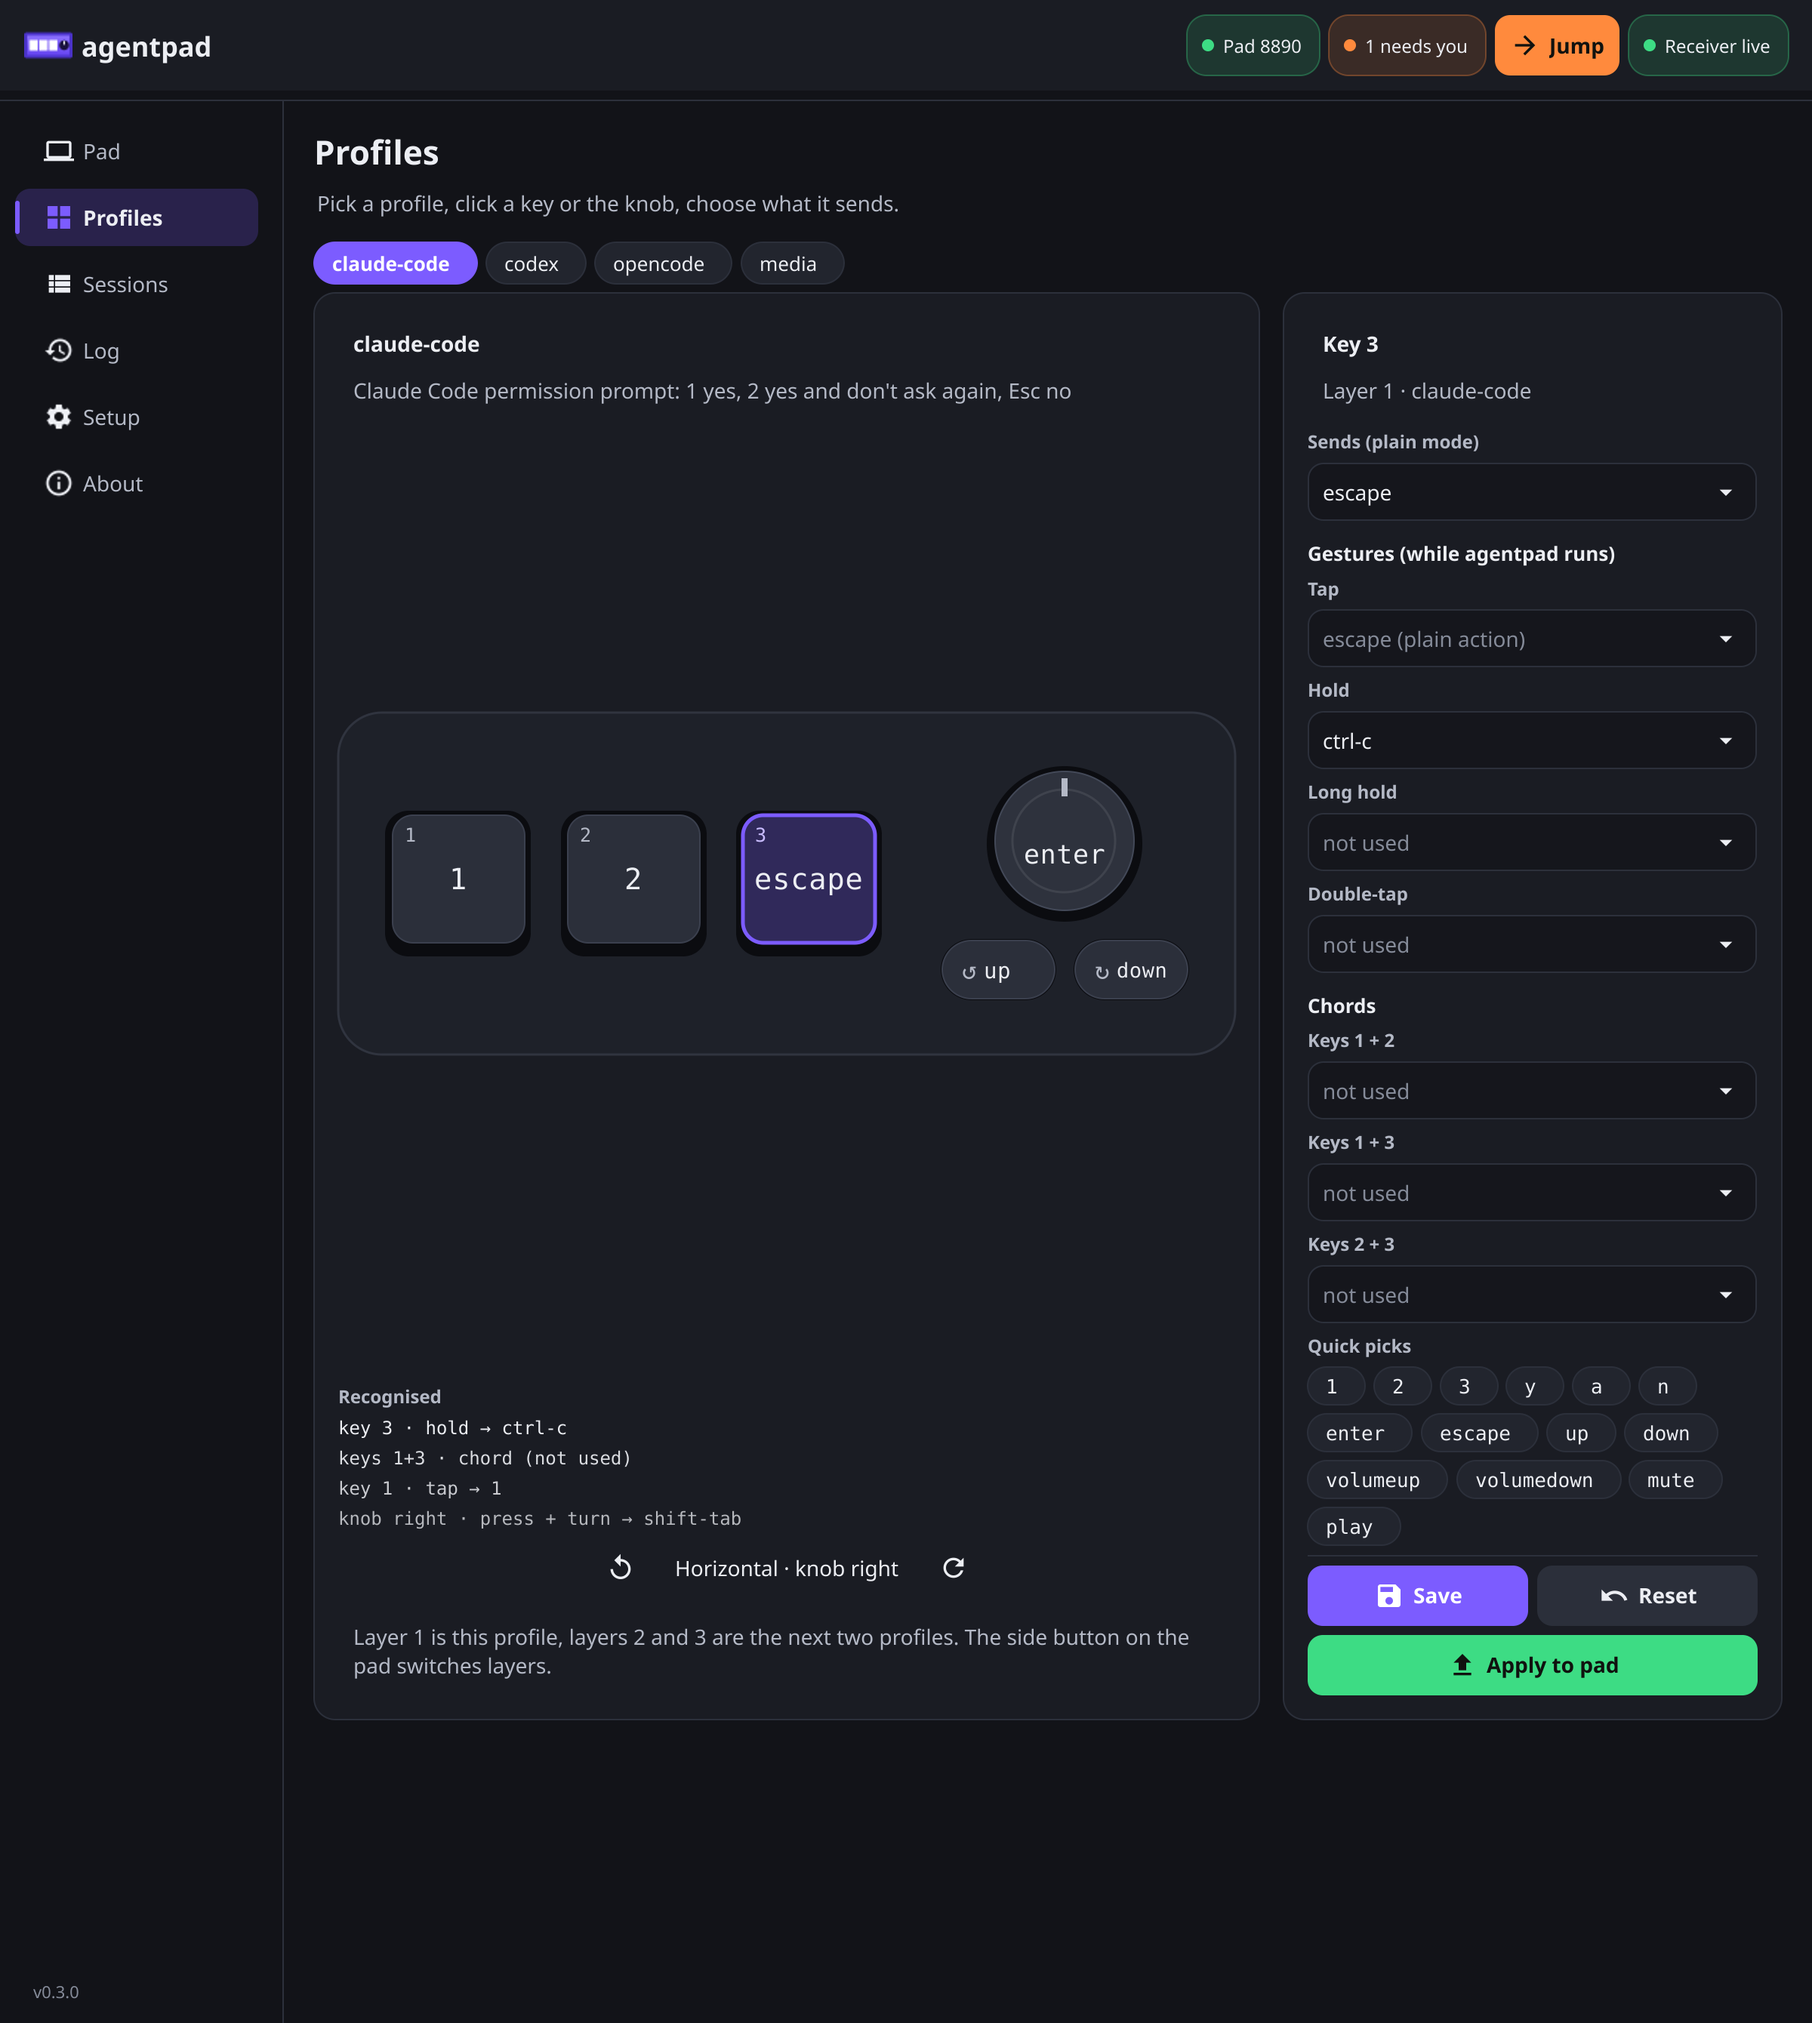
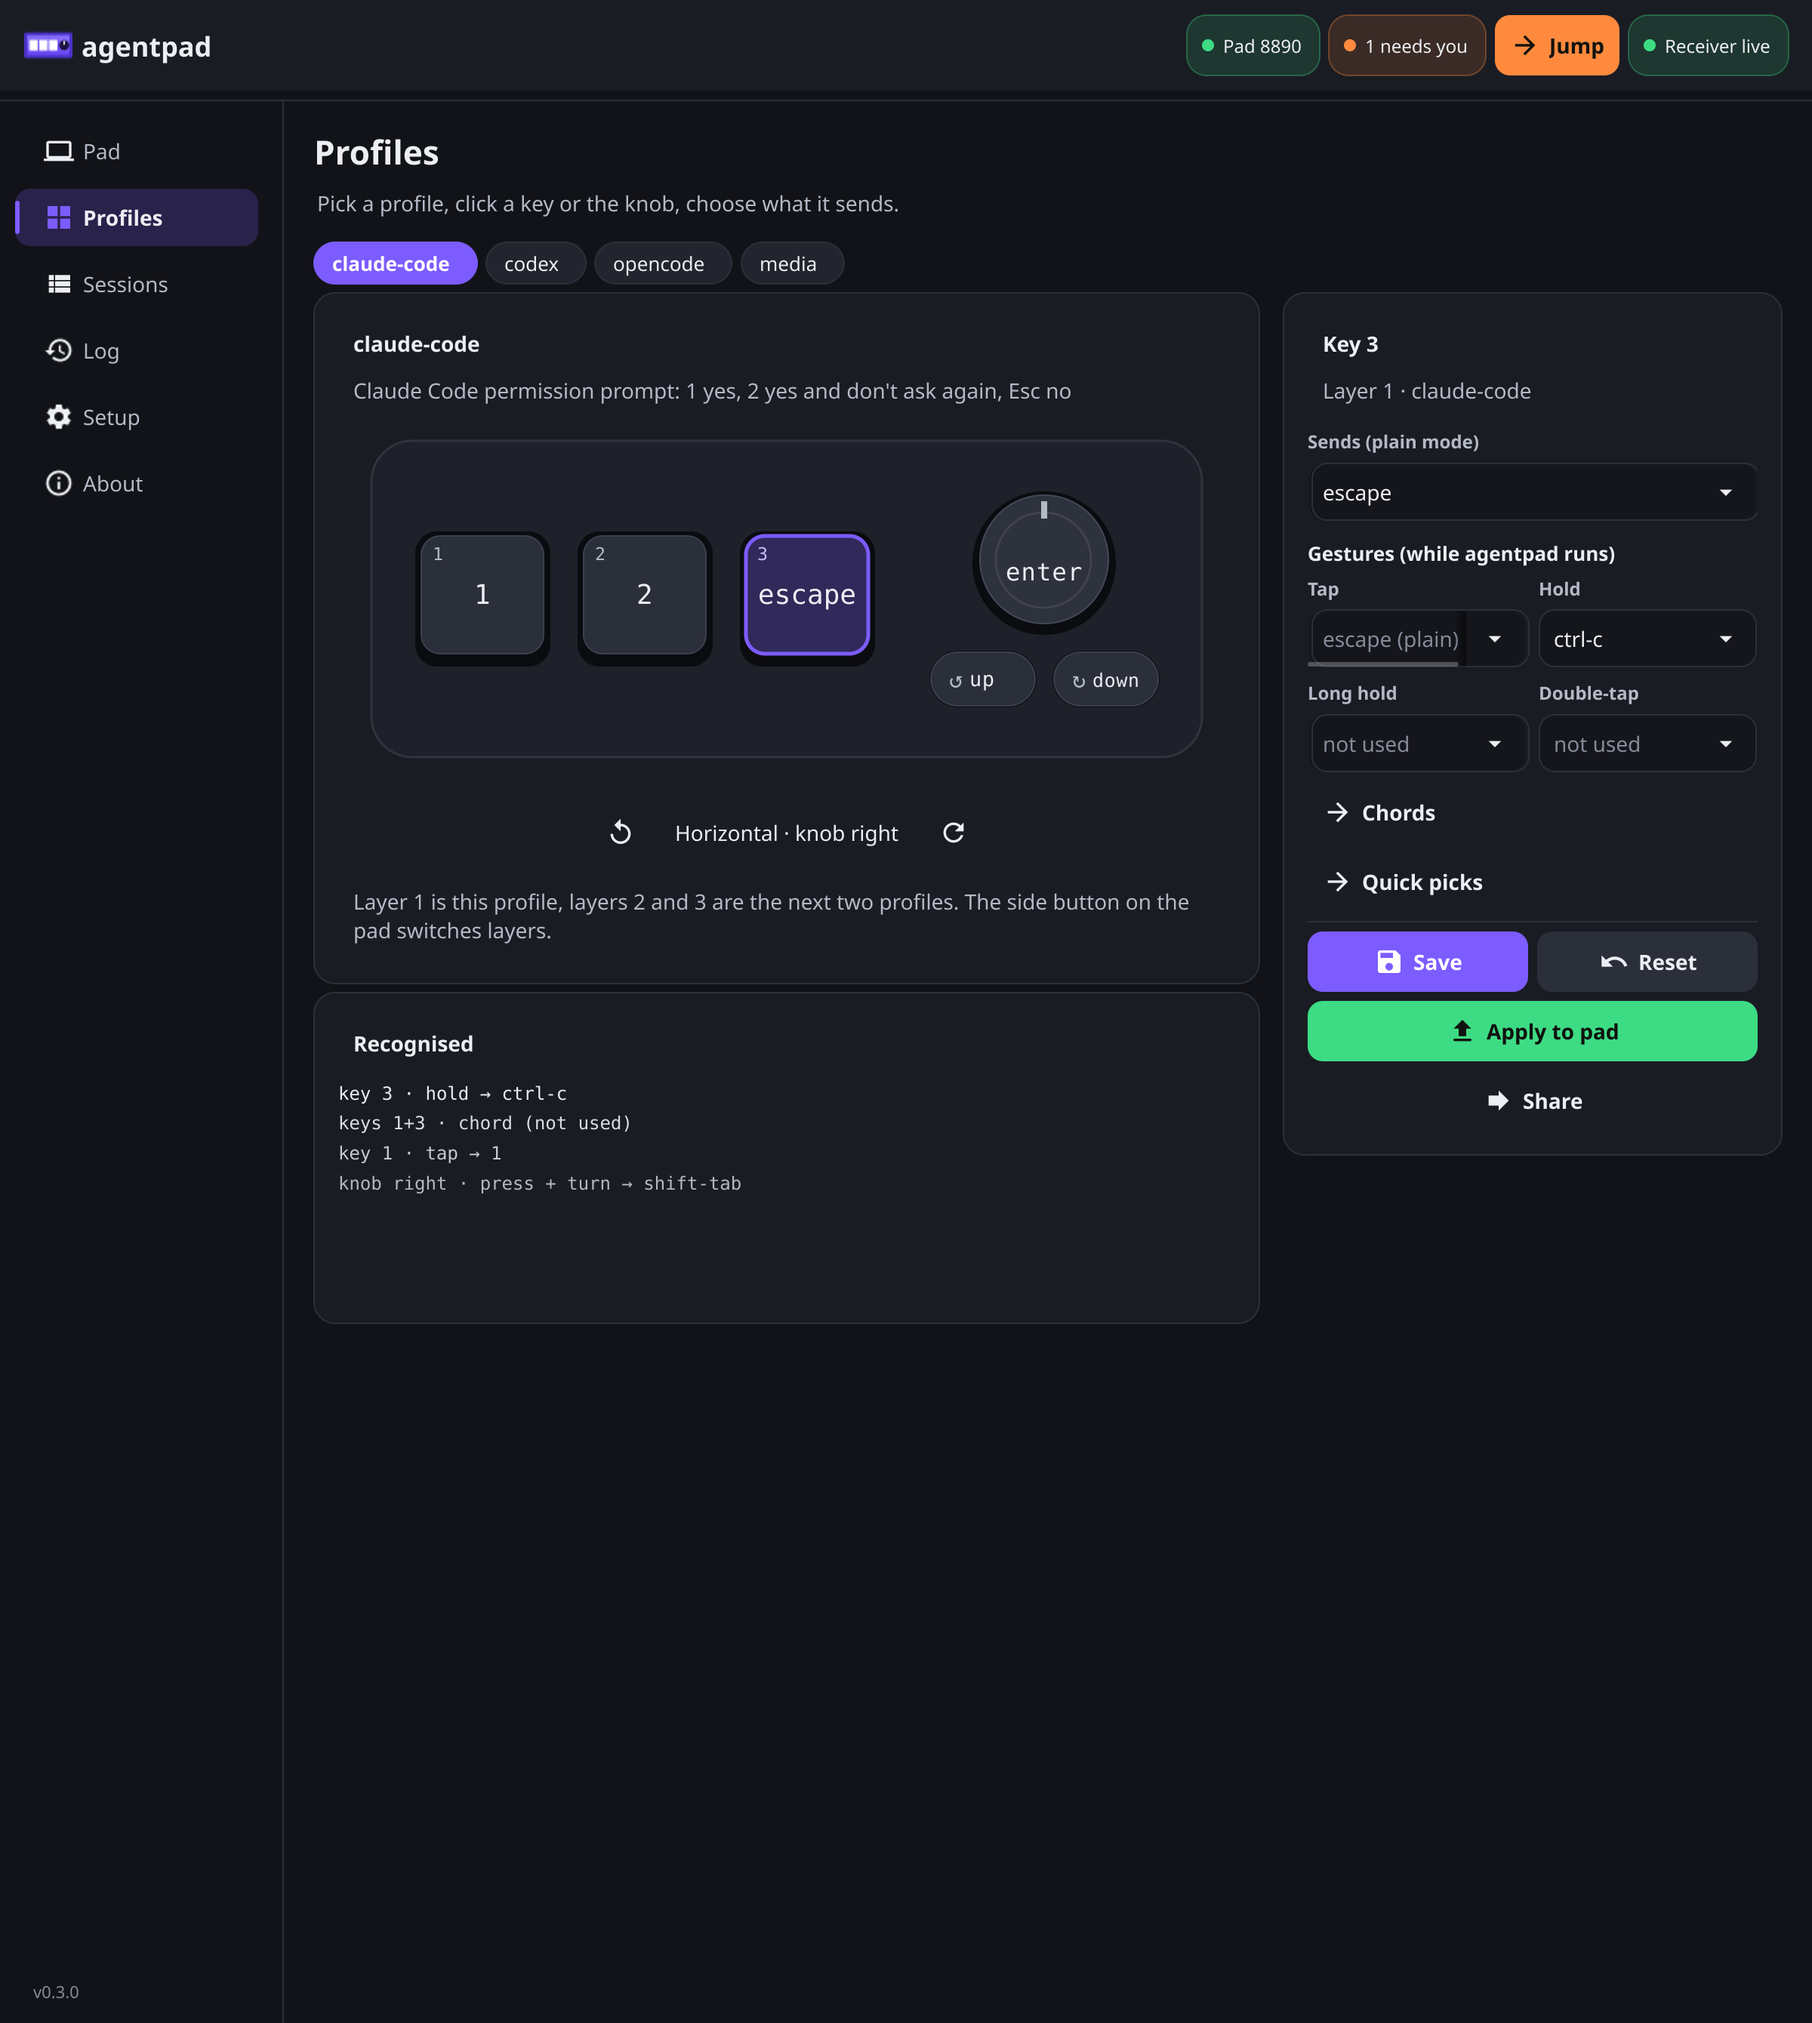
tighter profiles layout: top-aligned panes, recognised card, 2x2 gesture slots, collapsible chords and picks

diff --git a/internal/ui/tab_profiles.go b/internal/ui/tab_profiles.go
@@ -61,7 +61,13 @@ type profilesTab struct {
 	monitor     *fyne.Container
 	monitorBox  fyne.CanvasObject
 	monLog      gestureLog
+
+	chords *collapsible // gesture mode: the three chord slots
+	picks  *collapsible // quick picks
 }
+
+// monitorLines is how many lines the Recognised card shows before scrolling.
+const monitorLines = 8
 
 func newProfilesTab(u *appUI) *profilesTab {
 	t := &profilesTab{u: u, selected: -1, entries: map[string]*widget.SelectEntry{}}
@@ -94,11 +100,14 @@ func newProfilesTab(u *appUI) *profilesTab {
 	t.warning.Importance = widget.WarningImportance
 	t.warning.Hide()
 	t.monitor = container.NewVBox()
-	t.monitorBox = container.NewVBox(text("Recognised", 12, colText2, true), t.monitor)
+	monScroll := container.NewVScroll(t.monitor)
+	monScroll.SetMinSize(fyne.NewSize(0, monitorLines*18))
+	t.monitorBox = surface(container.NewVBox(boldLabel("Recognised"), monScroll))
 	t.monitorBox.Hide()
 	live := container.NewVBox(container.NewCenter(t.caption), t.liveHint)
-	stage := surface(container.NewBorder(stageHead, container.NewVBox(live, t.monitorBox, rotate, t.warning, secondary(layersNote)), nil, nil,
-		inset(8, 8, 0, 0, t.view.content)))
+	// natural heights, top to bottom: drawing, rotate row, notes
+	stage := surface(container.NewVBox(stageHead, inset(8, 0, 0, 0, t.view.content), live, rotate, t.warning, secondary(layersNote)))
+	left := container.NewVBox(stage, t.monitorBox)
 
 	t.inspTitle = boldLabel("")
 	t.inspSub = secondary("")
@@ -108,6 +117,8 @@ func newProfilesTab(u *appUI) *profilesTab {
 		a := a
 		picks.Add(newChip(a, true, func() { t.quickPick(a) }))
 	}
+	t.picks = newCollapsible("Quick picks", true, picks)
+	t.chords = newCollapsible(sectionChords, false)
 	t.message = wrapLabel("")
 	t.message.Hide()
 
@@ -121,20 +132,16 @@ func newProfilesTab(u *appUI) *profilesTab {
 	share.Importance = widget.LowImportance
 	buttons := container.NewVBox(container.NewGridWithColumns(2, t.saveBtn, t.resetBtn), t.applyBtn, share)
 
-	inspector := surface(container.NewVBox(
-		tight(t.inspTitle, t.inspSub),
-		t.slotsBox,
-		text("Quick picks", 12, colText2, true),
-		picks,
-		t.message,
-		widget.NewSeparator(),
-		buttons,
-	))
+	// the slots scroll inside the inspector when taller than the window;
+	// title and buttons stay put
+	slots := cappedScroll(container.NewVBox(t.slotsBox, t.picks.content, t.message), t.inspectorLimit)
+	inspector := surface(container.NewBorder(tight(t.inspTitle, t.inspSub),
+		container.NewVBox(widget.NewSeparator(), buttons), nil, nil, slots))
 
 	body := container.NewVBox(
 		screenTitle("Profiles", "Pick a profile, click a key or the knob, choose what it sends."),
 		t.chips,
-		newTwoPane(stage, container.NewVBox(inspector)),
+		newTwoPane(left, inspector),
 	)
 	t.content = screen(body)
 
@@ -247,10 +254,17 @@ func (t *profilesTab) loadInspector() {
 	t.slotsBox.Objects = nil
 	clear(t.entries)
 	slots := slotsFor(t.control, t.draft, t.gestureMode)
+	var grid *fyne.Container
+	var chords []fyne.CanvasObject
+	inChords := false
 	for _, s := range slots {
 		s := s
-		if s.Section != "" {
+		if s.Section == sectionChords {
+			inChords = true
+		} else if s.Section != "" {
 			t.slotsBox.Add(inset(6, 0, 0, 0, text(s.Section, 13, colText, true)))
+			grid = container.New(&columnsLayout{cols: t.slotColumns, gap: 8})
+			t.slotsBox.Add(grid)
 		}
 		opts := profile.SupportedKeys()
 		if s.ID != slotAction {
@@ -266,7 +280,19 @@ func (t *profilesTab) loadInspector() {
 			}
 		}
 		t.entries[s.ID] = e
-		t.slotsBox.Add(container.NewVBox(text(s.Label, 12, colText2, true), e))
+		cell := container.NewVBox(text(s.Label, 12, colText2, true), e)
+		switch {
+		case inChords:
+			chords = append(chords, cell)
+		case grid != nil:
+			grid.Add(cell)
+		default:
+			t.slotsBox.Add(cell)
+		}
+	}
+	if len(chords) > 0 {
+		t.chords.setBody(chords...)
+		t.slotsBox.Add(t.chords.content)
 	}
 	t.activeSlot = slots[0].ID
 	t.slotsBox.Refresh()
@@ -355,6 +381,7 @@ func (t *profilesTab) setMode(m Mode) {
 	} else {
 		t.monitorBox.Hide()
 	}
+	t.picks.setOpen(!on) // the many gesture slots need the room
 	t.loadInspector()
 	t.showWarning()
 }
@@ -559,3 +586,28 @@ func (t *profilesTab) showCaption(s string) {
 		})
 	})
 }
+
+// slotColumns is 2 for the gesture slot grid when the panes sit side by side.
+func (t *profilesTab) slotColumns() int {
+	if t.u.win != nil && sideBySide(t.u.win.Canvas().Size().Width) {
+		return 2
+	}
+	return 1
+}
+
+// inspectorLimit caps the inspector's slot area to what fits in the window
+// next to the pad (0 = no cap when stacked).
+func (t *profilesTab) inspectorLimit() float32 {
+	if t.u.win == nil {
+		return 0
+	}
+	sz := t.u.win.Canvas().Size()
+	if !sideBySide(sz.Width) {
+		return 0
+	}
+	return max(sz.Height-inspectorChrome, 240)
+}
+
+// inspectorChrome is the height above and below the inspector's slot area:
+// header, screen title, chips, inspector title and buttons.
+const inspectorChrome = 470

diff --git a/internal/ui/widgets.go b/internal/ui/widgets.go
@@ -102,7 +102,8 @@ func (l *gridLayout) Layout(objs []fyne.CanvasObject, size fyne.Size) {
 	}
 }
 
-// twoPaneLayout puts [main, side] side by side when wide enough, else stacks them.
+// twoPaneLayout puts [main, side] side by side when wide enough, else stacks
+// them. Both panes keep their own height (top aligned, no stretching).
 type twoPaneLayout struct {
 	side, gap float32
 	lastW     float32
@@ -126,16 +127,129 @@ func (l *twoPaneLayout) Layout(objs []fyne.CanvasObject, size fyne.Size) {
 	if sideBySide(size.Width) {
 		sw := min(l.side, size.Width/2)
 		main.Move(fyne.NewPos(0, 0))
-		main.Resize(fyne.NewSize(size.Width-sw-l.gap, size.Height))
+		main.Resize(fyne.NewSize(size.Width-sw-l.gap, main.MinSize().Height))
 		side.Move(fyne.NewPos(size.Width-sw, 0))
-		side.Resize(fyne.NewSize(sw, max(size.Height, side.MinSize().Height)))
+		side.Resize(fyne.NewSize(sw, side.MinSize().Height))
 		return
 	}
 	mh := main.MinSize().Height
 	main.Move(fyne.NewPos(0, 0))
 	main.Resize(fyne.NewSize(size.Width, mh))
 	side.Move(fyne.NewPos(0, mh+l.gap))
-	side.Resize(fyne.NewSize(size.Width, max(size.Height-mh-l.gap, side.MinSize().Height)))
+	side.Resize(fyne.NewSize(size.Width, side.MinSize().Height))
+}
+
+// columnsLayout lays its children out in cols() equal columns, row by row.
+type columnsLayout struct {
+	cols func() int
+	gap  float32
+}
+
+func (l *columnsLayout) n(objs []fyne.CanvasObject) int { return max(1, min(l.cols(), len(objs))) }
+
+func (l *columnsLayout) MinSize(objs []fyne.CanvasObject) fyne.Size {
+	cols := l.n(objs)
+	var w, h, rowH float32
+	for i, o := range objs {
+		m := o.MinSize()
+		w = max(w, m.Width)
+		rowH = max(rowH, m.Height)
+		if i%cols == cols-1 || i == len(objs)-1 {
+			if h > 0 {
+				h += l.gap
+			}
+			h += rowH
+			rowH = 0
+		}
+	}
+	return fyne.NewSize(w*float32(cols)+l.gap*float32(cols-1), h)
+}
+
+func (l *columnsLayout) Layout(objs []fyne.CanvasObject, size fyne.Size) {
+	cols := l.n(objs)
+	cw := (size.Width - l.gap*float32(cols-1)) / float32(cols)
+	var y float32
+	for r := 0; r*cols < len(objs); r++ {
+		row := objs[r*cols : min(len(objs), (r+1)*cols)]
+		var rh float32
+		for _, o := range row {
+			rh = max(rh, o.MinSize().Height)
+		}
+		for c, o := range row {
+			o.Move(fyne.NewPos(float32(c)*(cw+l.gap), y))
+			o.Resize(fyne.NewSize(cw, rh))
+		}
+		y += rh + l.gap
+	}
+}
+
+// cappedLayout sizes a single scroll to its content, but no taller than
+// limit() (0 = no limit), so it scrolls inside itself beyond that.
+type cappedLayout struct {
+	scroll *container.Scroll
+	limit  func() float32
+}
+
+func (l *cappedLayout) MinSize([]fyne.CanvasObject) fyne.Size {
+	c := l.scroll.Content.MinSize()
+	h := c.Height
+	if m := l.limit(); m > 0 && h > m {
+		h = m
+	}
+	return fyne.NewSize(c.Width, h)
+}
+
+func (l *cappedLayout) Layout(objs []fyne.CanvasObject, size fyne.Size) {
+	for _, o := range objs {
+		o.Move(fyne.NewPos(0, 0))
+		o.Resize(size)
+	}
+}
+
+func cappedScroll(content fyne.CanvasObject, limit func() float32) *fyne.Container {
+	s := container.NewVScroll(content)
+	return container.New(&cappedLayout{scroll: s, limit: limit}, s)
+}
+
+// collapsible is a section with a header that shows or hides its body.
+type collapsible struct {
+	title   string
+	open    bool
+	head    *widget.Button
+	body    *fyne.Container
+	content *fyne.Container
+}
+
+func newCollapsible(title string, open bool, body ...fyne.CanvasObject) *collapsible {
+	c := &collapsible{title: title, body: container.NewVBox(body...)}
+	c.head = widget.NewButton(title, func() { c.setOpen(!c.open) })
+	c.head.Alignment = widget.ButtonAlignLeading
+	c.head.Importance = widget.LowImportance
+	c.content = container.NewVBox(c.head, c.body)
+	c.open = !open
+	c.setOpen(open)
+	return c
+}
+
+func (c *collapsible) setOpen(on bool) {
+	if c.open == on {
+		return
+	}
+	c.open = on
+	if on {
+		c.head.SetIcon(theme.MenuDropDownIcon())
+		c.body.Show()
+	} else {
+		c.head.SetIcon(theme.NavigateNextIcon())
+		c.body.Hide()
+	}
+	c.content.Refresh()
+}
+
+// setBody replaces the body's children.
+func (c *collapsible) setBody(objs ...fyne.CanvasObject) {
+	c.body.Objects = objs
+	c.body.Refresh()
 }
 
 // ---- text helpers ------------------------------------------------------------

diff --git a/internal/ui/integrate_test.go b/internal/ui/integrate_test.go
@@ -549,14 +549,14 @@ func TestGestureSlots(t *testing.T) {
 	if !slices.Equal(labels[1:5], []string{"Tap", "Hold", "Long hold", "Double-tap"}) || labels[5] != "Keys 1 + 2" {
 		t.Errorf("labels %q", labels)
 	}
-	if key[1].Placeholder != "escape (plain action)" || key[2].Placeholder != notUsed || key[1].Section != sectionGestures || key[5].Section != sectionChords {
+	if key[1].Placeholder != "escape (plain)" || key[2].Placeholder != notUsed || key[1].Section != sectionGestures || key[5].Section != sectionChords {
 		t.Errorf("placeholders/sections %+v", key)
 	}
 	if getAction(p, ctlKey3, "g:key3:hold") != "ctrl-c" || getAction(p, ctlKey3, "g:key3:tap") != "" {
 		t.Error("gesture slots show explicit actions only")
 	}
 	knob := slotsFor(ctlKnobCW, p, true)
-	if knob[1].ID != "g:knob-cw:rotate" || knob[1].Label != "Turn" || knob[1].Placeholder != "down (plain action)" ||
+	if knob[1].ID != "g:knob-cw:rotate" || knob[1].Label != "Turn" || knob[1].Placeholder != "down (plain)" ||
 		knob[2].ID != "g:knob-cw:pressrotate" || knob[2].Label != "Press + turn" {
 		t.Errorf("knob slots %+v", knob[:3])
 	}

diff --git a/internal/ui/controls.go b/internal/ui/controls.go
@@ -132,7 +132,7 @@ func slotsFor(c controlID, p profile.Profile, gestures bool) []actionSlot {
 	for i, kind := range profile.GestureKinds(c.name()) {
 		s := actionSlot{ID: gestureSlotID(c.name(), kind), Label: kindLabel(kind), Placeholder: notUsed}
 		if (kind == profile.KindTap || kind == profile.KindRotate) && plain != "" {
-			s.Placeholder = plain + " (plain action)"
+			s.Placeholder = plain + " (plain)"
 		}
 		if i == 0 {
 			s.Section = sectionGestures

diff --git a/docs/gestures.md b/docs/gestures.md
@@ -145,9 +145,11 @@ Any other `agentpad:` name is rejected when the profile is saved.
   one slot per gesture for the selected control (tap / hold / long hold /
   double-tap, or turn / press + turn for the knob) plus the three chords. An
   empty slot is not used; tap and turn fall back to the plain action, shown as
-  the placeholder.
-- **Watch it work**: in gesture mode the Profiles screen lists the last
-  recognised gestures, e.g. `key 1 · hold → ctrl-c`.
+  the placeholder. On wide windows the gesture slots sit in a 2×2 grid; **Chords**
+  and **Quick picks** are collapsible (chords start collapsed, quick picks are
+  collapsed in gesture mode).
+- **Watch it work**: in gesture mode a **Recognised** card under the pad lists
+  the last recognised gestures, newest first, e.g. `key 1 · hold → ctrl-c`.
 - Applying a profile in gesture mode switches the profile agentpad uses; the
   pad keeps its gesture mapping.
 - Thresholds (hold, long hold, double-tap) come from the settings; there is no
